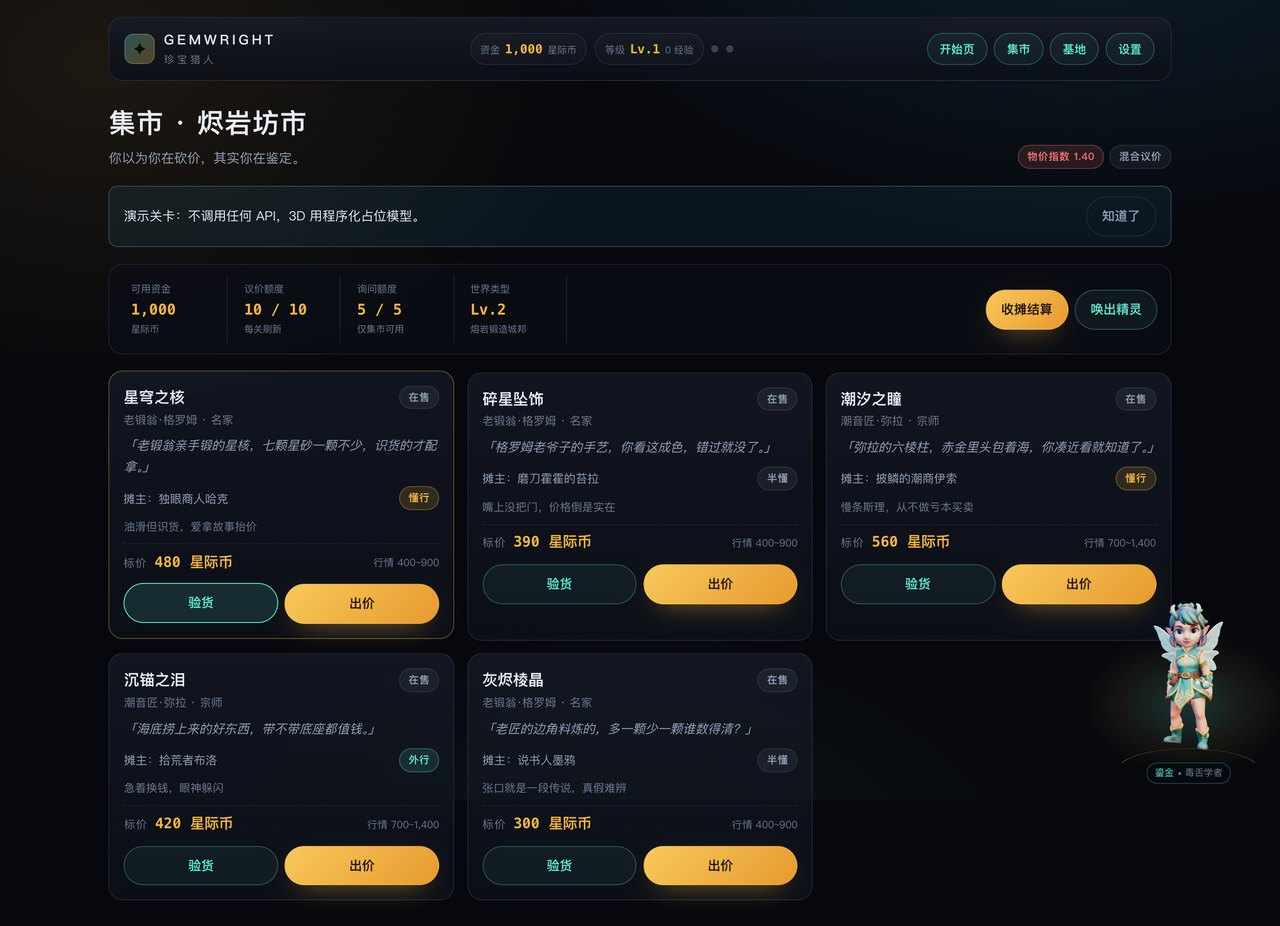
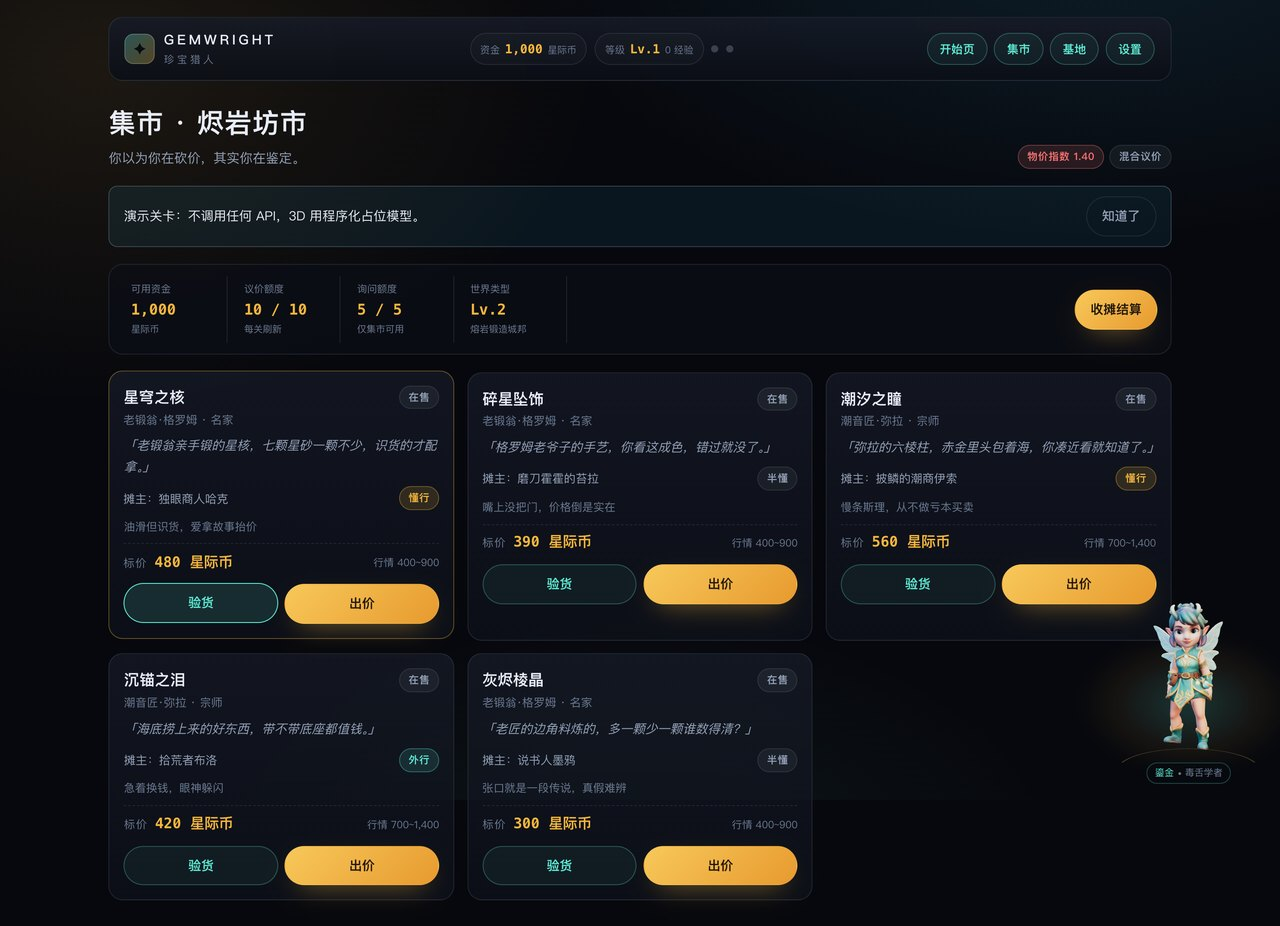
feat: 双击常驻精灵打开对话，移除集市 HUD 精灵按钮

Changed region(s): [[0.75, 0.3024, 0.9062, 0.3629]]

diff --git a/src/ui/fairyCompanion.ts b/src/ui/fairyCompanion.ts
@@ -28,6 +28,8 @@ const SELF_TALK_MIN_MS = 12_000;
 const SELF_TALK_MAX_MS = 24_000;
 const BUBBLE_MS = 6200;
 const STAGE_DELAY_MS = 650;
+/** 单击说句话；两次点击间隔小于这个值视为双击，打开聊天面板。 */
+const DOUBLE_CLICK_MS = 280;
 
 let root: HTMLElement | null = null;
 let stageButton: HTMLButtonElement | null = null;
@@ -53,6 +55,8 @@ let pendingReaction: FairyReaction | null = null;
 
 let bubbleTimer = 0;
 let selfTalkTimer = 0;
+let clickTimer = 0;
+let lastClickAt = 0;
 
 export function mountFairyCompanion(): void {
   if (root) return;
@@ -73,20 +77,39 @@ export function mountFairyCompanion(): void {
     'button',
     {
       class: 'fairy-companion__stage',
-      attrs: { type: 'button', title: '和鉴宝精灵互动' },
+      attrs: { type: 'button', title: '单击说句话，双击唤出精灵面板' },
       on: {
         click: () => {
           const state = currentState;
           if (!state) return;
-          if (state.screen === 'market' && state.level && state.session) {
-            toggleFairyPanel();
+          const now = performance.now();
+          if (now - lastClickAt < DOUBLE_CLICK_MS) {
+            lastClickAt = 0;
+            clearTimeout(clickTimer);
+            clickTimer = 0;
+            if (state.screen === 'market' && state.level && state.session) {
+              toggleFairyPanel(true);
+            } else {
+              showBubble(
+                state.level ? selfTalkLine(state) : '先找到一座坊市，我才有热闹可看。',
+                'talk',
+                5200,
+              );
+            }
             return;
           }
-          showBubble(
-            state.level ? selfTalkLine(state) : '先找到一座坊市，我才有热闹可看。',
-            'talk',
-            5200,
-          );
+          lastClickAt = now;
+          clearTimeout(clickTimer);
+          clickTimer = window.setTimeout(() => {
+            clickTimer = 0;
+            const latest = currentState;
+            if (!visible || docked) return;
+            showBubble(
+              latest?.level ? selfTalkLine(latest) : '先找到一座坊市，我才有热闹可看。',
+              'talk',
+              5200,
+            );
+          }, DOUBLE_CLICK_MS);
         },
       },
     },
@@ -207,9 +230,12 @@ export function disposeFairyCompanion(): void {
   clearTimeout(bubbleTimer);
   clearTimeout(selfTalkTimer);
   clearTimeout(stageTimer);
+  clearTimeout(clickTimer);
   bubbleTimer = 0;
   selfTalkTimer = 0;
   stageTimer = 0;
+  clickTimer = 0;
+  lastClickAt = 0;
   stage?.dispose();
   stage = null;
   stageReady = false;
@@ -256,6 +282,9 @@ function hideCompanion(): void {
   bubble?.classList.remove('is-visible');
   clearTimeout(bubbleTimer);
   clearTimeout(selfTalkTimer);
+  clearTimeout(clickTimer);
+  clickTimer = 0;
+  lastClickAt = 0;
   if (stageTimer) {
     clearTimeout(stageTimer);
     stageTimer = 0;
@@ -270,7 +299,7 @@ function updateIdentity(state: AppState): void {
   const { name, persona } = fairyDisplayName(state);
   if (nameLabel) nameLabel.textContent = name;
   if (personaLabel) personaLabel.textContent = persona;
-  stageButton?.setAttribute('aria-label', `和鉴宝精灵「${name}」互动`);
+  stageButton?.setAttribute('aria-label', `和鉴宝精灵「${name}」互动，双击打开对话`);
 }
 
 function setAction(action: FairyAction): void {

diff --git a/src/ui/screens/market.ts b/src/ui/screens/market.ts
@@ -83,10 +83,6 @@ export function renderMarket(state: AppState): HTMLElement {
         'div',
         { class: 'market-hud__actions' },
         button('收摊结算', { variant: 'primary', onClick: () => closeMarket() }),
-        button(state.fairyOpen ? '收起精灵' : '唤出精灵', {
-          variant: 'ghost',
-          onClick: () => toggleFairyPanel(),
-        }),
       ),
     ),
     end.end && end.message ? h('p', { class: 'hint hint--warn', text: end.message }) : null,
@@ -318,7 +314,12 @@ function renderFairyDrawer(state: AppState, session: LevelSession): HTMLElement 
         h('h3', { text: `精灵「${level.fairy.name}」` }),
         h('p', { class: 'hint', text: level.fairy.persona }),
       ),
-      h('div', { class: 'fairy-drawer__quota', text: `${askLeft} 问` }),
+      h(
+        'div',
+        { class: 'fairy-drawer__head-actions' },
+        h('div', { class: 'fairy-drawer__quota', text: `${askLeft} 问` }),
+        button('关闭', { variant: 'subtle', onClick: () => toggleFairyPanel(false) }),
+      ),
     ),
     h('ul', { class: 'briefing' }, ...level.fairy.briefing.map((line) => h('li', { text: line }))),
     h(
@@ -363,7 +364,12 @@ function renderTutorialFairy(
         h('h3', { text: `精灵「${level.fairy.name}」` }),
         h('p', { class: 'hint', text: level.fairy.persona }),
       ),
-      h('div', { class: 'fairy-drawer__quota', text: `${askLeft} 问` }),
+      h(
+        'div',
+        { class: 'fairy-drawer__head-actions' },
+        h('div', { class: 'fairy-drawer__quota', text: `${askLeft} 问` }),
+        button('关闭', { variant: 'subtle', onClick: () => toggleFairyPanel(false) }),
+      ),
     ),
     h('ul', { class: 'briefing' }, ...level.fairy.briefing.map((line) => h('li', { text: line }))),
     h(

diff --git a/tests/fairyCompanion.test.ts b/tests/fairyCompanion.test.ts
@@ -3,6 +3,7 @@ import { bootstrapState } from '../src/app/actions';
 import { createTutorialLevel } from '../src/game/tutorial/level';
 import { LevelSession } from '../src/game/level';
 import type { AppState } from '../src/app/store';
+import { store } from '../src/app/store';
 import {
   disposeFairyCompanion,
   fairyCompanionDebug,
@@ -45,6 +46,16 @@ describe('右下角常驻精灵', () => {
 
     const canvas = root?.querySelector('canvas');
     expect(canvas).not.toBeNull();
+  });
+
+  it('双击常驻精灵会打开集市精灵面板', () => {
+    store.set({ fairyOpen: false });
+    updateFairyCompanion(marketState());
+    const stage = document.querySelector<HTMLButtonElement>('button.fairy-companion__stage');
+    expect(stage).not.toBeNull();
+    stage?.click();
+    stage?.click();
+    expect(store.get().fairyOpen).toBe(true);
   });
 
   it('离开游戏屏后隐藏并清掉常驻状态', () => {

diff --git a/tests/ui.test.ts b/tests/ui.test.ts
@@ -47,7 +47,8 @@ describe('UI 渲染冒烟', () => {
     expect(el.querySelectorAll('.stall-card')).toHaveLength(5);
     expect(el.textContent).toContain('星穹之核');
     expect(el.textContent).toContain('议价额度');
-    expect(el.textContent).toContain('唤出精灵');
+    expect(el.textContent).not.toContain('唤出精灵');
+    expect(el.textContent).toContain('询问额度');
   });
 
   it('基地页逐件揭晓真伪与特征 diff', async () => {

diff --git a/src/styles/screens.css b/src/styles/screens.css
@@ -335,6 +335,17 @@
   color: var(--teal);
 }
 
+.fairy-drawer__head-actions {
+  display: flex;
+  align-items: center;
+  gap: 0.4rem;
+}
+
+.fairy-drawer__head-actions .btn {
+  padding: 0.26rem 0.6rem;
+  font-size: 0.74rem;
+}
+
 .fairy-drawer__quota {
   font-family: var(--mono);
   font-size: 0.82rem;

diff --git a/src/styles/fairy.css b/src/styles/fairy.css
@@ -93,6 +93,8 @@ body.has-fairy .app {
   background: transparent;
   pointer-events: auto;
   cursor: pointer;
+  touch-action: manipulation;
+  user-select: none;
   transform-origin: 50% 90%;
   transition: transform 0.18s ease;
 }

diff --git a/README.md b/README.md
@@ -72,7 +72,7 @@
 
 > 截图是 `npm run fairy` 生成的 Lux3D 精灵：文生 3D → 数字人自动绑骨 → 6 个动作重定向；只有未配置 Key / 生成失败时才会退回程序化兜底。
 
-- **常驻右下角**：只在穿越 / 集市 / 验货 / 基地出现；在集市点它会唤出精灵面板（面板打开时它让位给侧栏），其它屏幕点它只说句话。
+- **常驻右下角**：只在穿越 / 集市 / 验货 / 基地出现；**单击**它说句话，**双击**它在集市唤出精灵面板（面板打开时它让位给侧栏，点面板里的「关闭」回来）。
 - **六套动作**：`Idle` / `Talk` / `Think` / `Happy` / `Sad` / `Alert`，由运行时状态自动匹配，交叉淡入。
 - **偶尔自言自语**：12–24 秒一句，台词来自本地静态池（会结合世界、额度、教学关、资金语境），**不调用 LLM**，也绝不包含单件真伪 / 价格。
 - **Lux3D 生成**：`npm run fairy` 调三次 Lux3D 官方异步接口：文生 3D → 数字人自动绑骨 → 6 个动作重定向（combined），最终下载一个带 skin 与 6 个 AnimationClip 的 GLB。
@@ -157,7 +157,7 @@ npm run fairy -- --region global  # 国际 Key
 | 精灵动画 | **Lux3D 文生 3D + 自动绑骨 + 动作重定向 + AnimationMixer / OffscreenCanvas Worker** | 主路径是带 skin 的 humanoid + 6 个 AnimationClip；兜底为 12 骨程序化骨架；渲染在 Worker，不卡主线程 |
 | 校验 | **Zod 4** | schema 失败信息直接回灌 LLM 做定向重试 |
 | 存储 | **localStorage + IndexedDB** | Key / 存档 / 续玩快照走 localStorage；关卡 JSON 与 GLB blob 走 IndexedDB |
-| 测试 | **Vitest 5 + happy-dom** | 22 个测试文件 / 100 个用例 |
+| 测试 | **Vitest 5 + happy-dom** | 22 个测试文件 / 101 个用例 |
 | 工程化 | **ESLint 10（flat config）+ Prettier 3** | `npm run verify` 串起 typecheck → lint → test → build |
 | 样式 | **原生 CSS + 设计 token** | 按 token / base / 组件 / 屏幕分层，无 Tailwind 构建链 |
 
@@ -223,7 +223,7 @@ Gemwright/
 │   │   ├── fairyCompanion.ts     右下角常驻精灵（单例 / 动作 / 自言自语）
 │   │   ├── fairyTalk.ts          动作匹配 + 静态台词池（纯函数）
 │   │   └── screens/              start / newgame / guide / settings / travel / market / inspect / base
-├── tests/                        22 个测试文件 / 100 个用例
+├── tests/                        22 个测试文件 / 101 个用例
 └── docs/
     ├── 珍宝猎人-方案v8-MVP.md     权威方案 v8.1
     ├── 开发指南.md                模块职责、数据流、不变量、扩展方式
@@ -265,7 +265,7 @@ public/models/manifest.json → loadLocalModel() → GLB Blob → TreasureViewer
 npm install
 npm run dev         # http://127.0.0.1:5173
 npm run build       # 产物 dist/，相对路径，可直接静态托管
-npm run test        # Vitest：100 个用例
+npm run test        # Vitest：101 个用例
 npm run lint        # ESLint（flat config）
 npm run format      # Prettier 写回 src/tests/配置
 npm run verify      # typecheck + lint + test + build（提交前一键）
@@ -385,7 +385,7 @@ npm run fairy       # 文生 3D → 绑骨 → 动作重定向 → public/models
 npm run verify
 # tsc --noEmit ✓（strict + noUnusedLocals）
 # eslint ✓（flat config）
-# vitest: 22 files / 100 tests ✓
+# vitest: 22 files / 101 tests ✓
 # vite build: dist/ ✓
 #   主包 index-*.js  ~220KB / gzip ~75KB
 #   3D chunk viewer-*.js ~651KB / gzip ~163KB（按需加载）

diff --git a/docs/开发指南.md b/docs/开发指南.md
@@ -10,7 +10,7 @@ npm run dev          # Vite dev server，http://127.0.0.1:5173
 npm run typecheck    # tsc --noEmit（含 tests）
 npm run lint         # ESLint flat config
 npm run format       # Prettier 写回 src / tests / 配置
-npm run test         # Vitest（happy-dom），22 files / 100 tests
+npm run test         # Vitest（happy-dom），22 files / 101 tests
 npm run build        # typecheck + vite build → dist/
 npm run verify       # typecheck + lint + format:check + test + build，提交前跑
 npm run models       # 生成教学/演示预置 GLB（需 Lux3D Key）
@@ -160,6 +160,7 @@ TreasureItem {
 - 渲染：`fairyCompanion.ts` 是挂在 `document.body` 的单例，不随 router 整屏重绘重建；首次进游戏 650ms 后动态 import `fairyStage.ts`，把 canvas 的 `transferControlToOffscreen()` 交给 `fairyStage.worker.ts`。three / WebGL / GLTFLoader / AnimationMixer 全在 Worker，主线程只发 `action` / `pause` / `resize`（实测长任务从 ~2.4s 降到 ~220ms）。
 - 动作：`fairyTalk.fairyReaction(prev, next)` 是纯函数，优先级为 **新回答 > 成交 > notice > busy > 换世界 > 收摊 > 额度耗尽**；`fairyCompanion` 负责把它翻译成 `stage.play(action)`。动作与台词都有单测。
 - 常驻：只在 `travel / market / inspect / base` 显示；`start / newgame / guide / settings` 隐藏。`body.has-fairy` 给 `.app` 加底部留白，避免遮住最后一张卡片。
+- 交互：**单击**常驻精灵说一句自言语，**双击**（两次 click 间隔 <280ms）在集市 `toggleFairyPanel(true)`；不再在 HUD 放「唤出/收起精灵」按钮。侧栏头部有自己的「关闭」按钮。
 - 集市精灵侧栏打开时，常驻形象加 `is-docked` 让位（CSS 隐藏）；关闭侧栏后自动恢复。这是因为侧栏本身已经代表精灵，两个形象同时出现会挡住摊位。侧栏打开期间的状态反应会暂存，关闭后补一个气泡 / 动作（例如被挡回后补 `Sad`）。
 - 自言自语：12–24 秒一次，6 秒消失；`fairyTalk.selfTalkLine()` 从静态池里按 persona / 教学关 / 额度 / 资金 / 世界挑一句。**不调用 LLM，不读 stalls / 价格 / 真伪**，防火墙不受影响。
 - 降级：Lux3D GLB 加载失败 / 没有 GLB → `buildFairyRig()` 实时构建；没有 `OffscreenCanvas` / Worker 或舞台创建失败 → CSS 光球 + 台词气泡；`prefers-reduced-motion` 由主线程检测后传给 Worker，Worker 只画静态帧。
